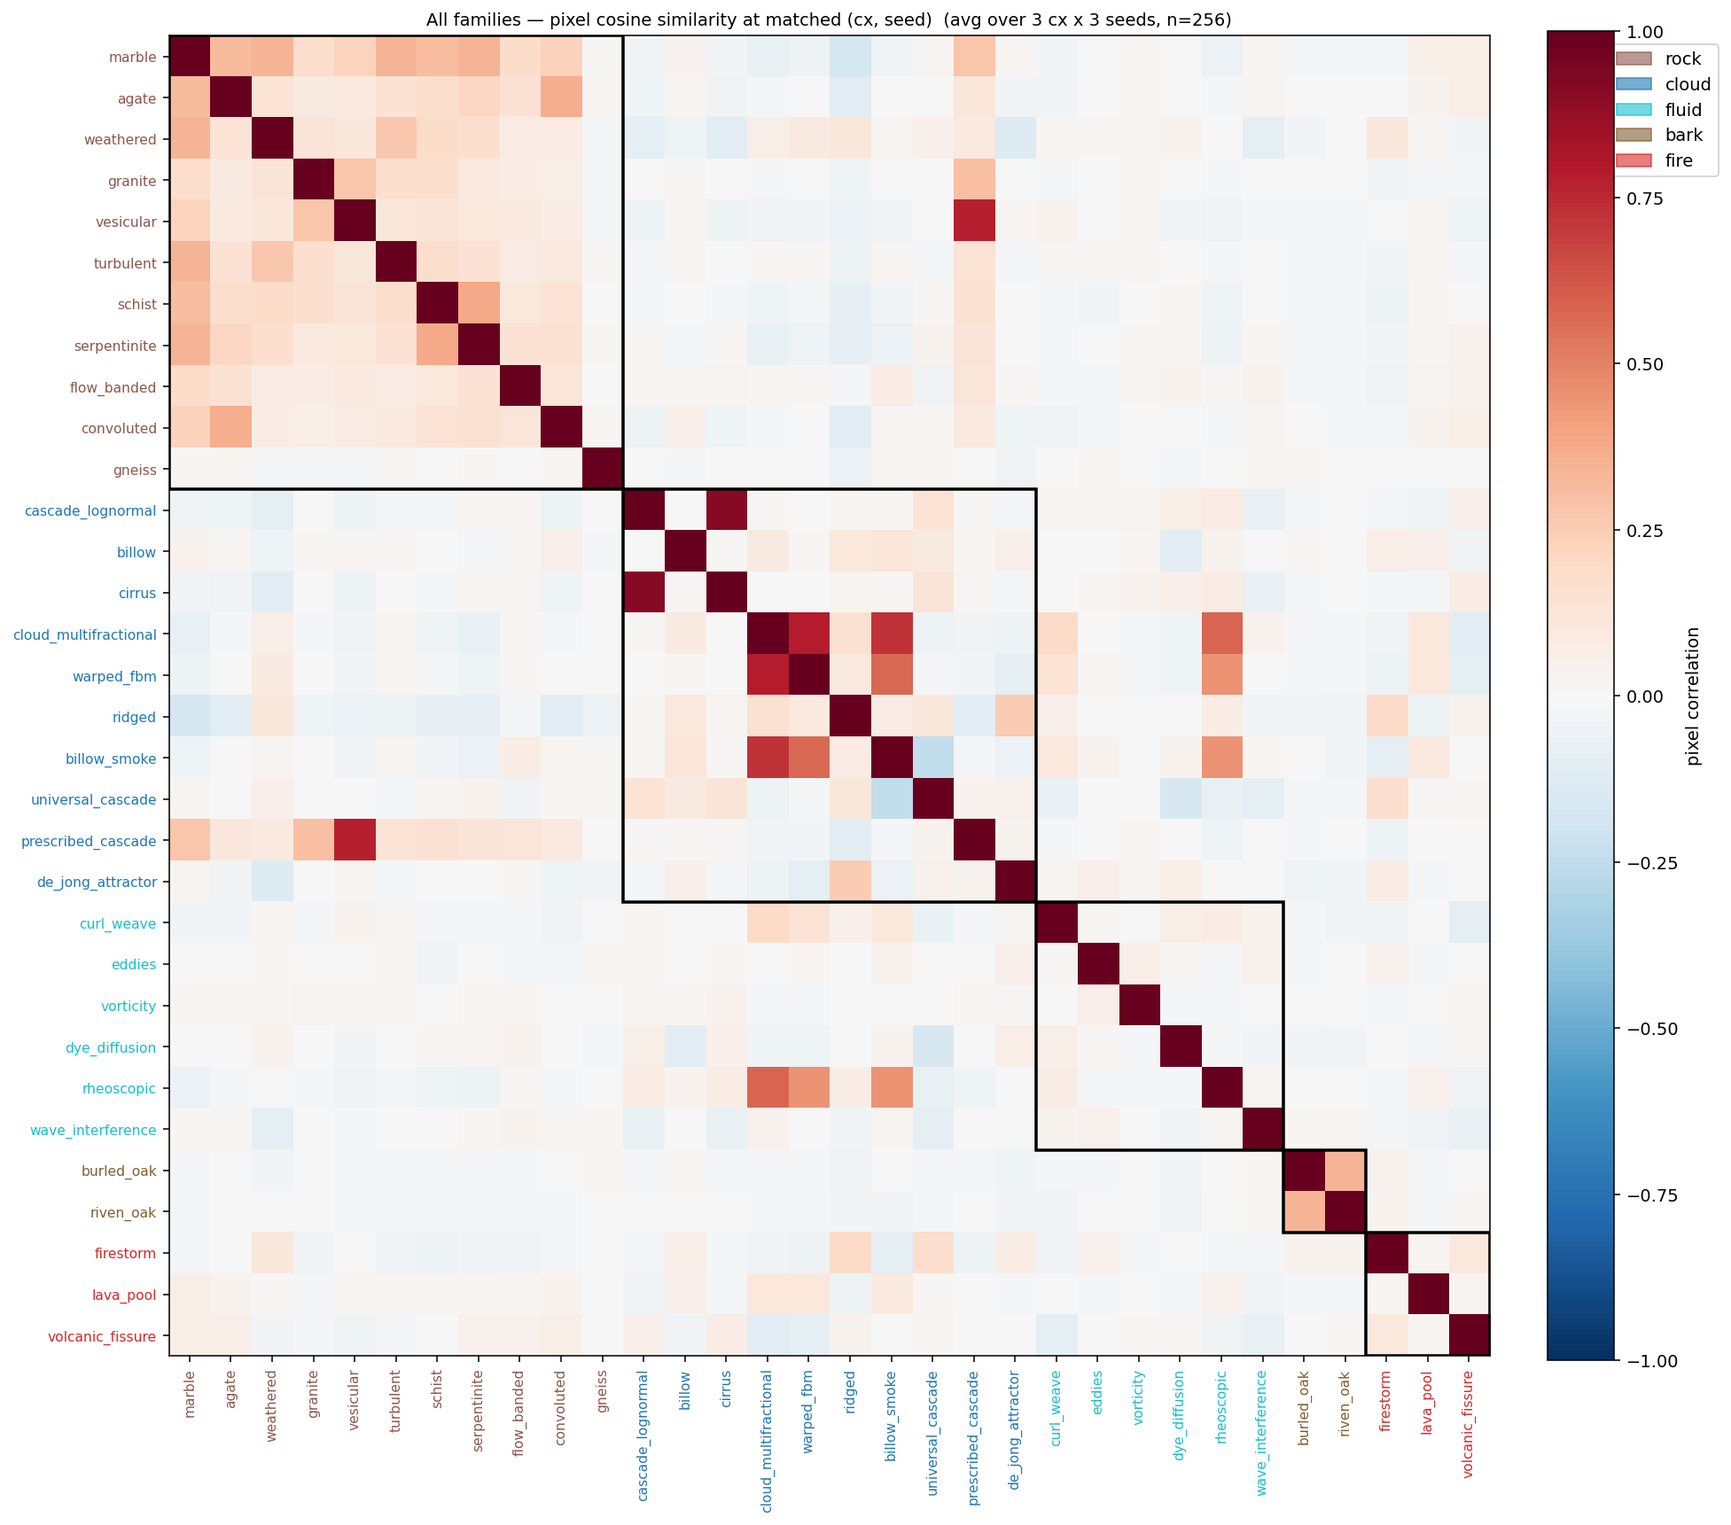
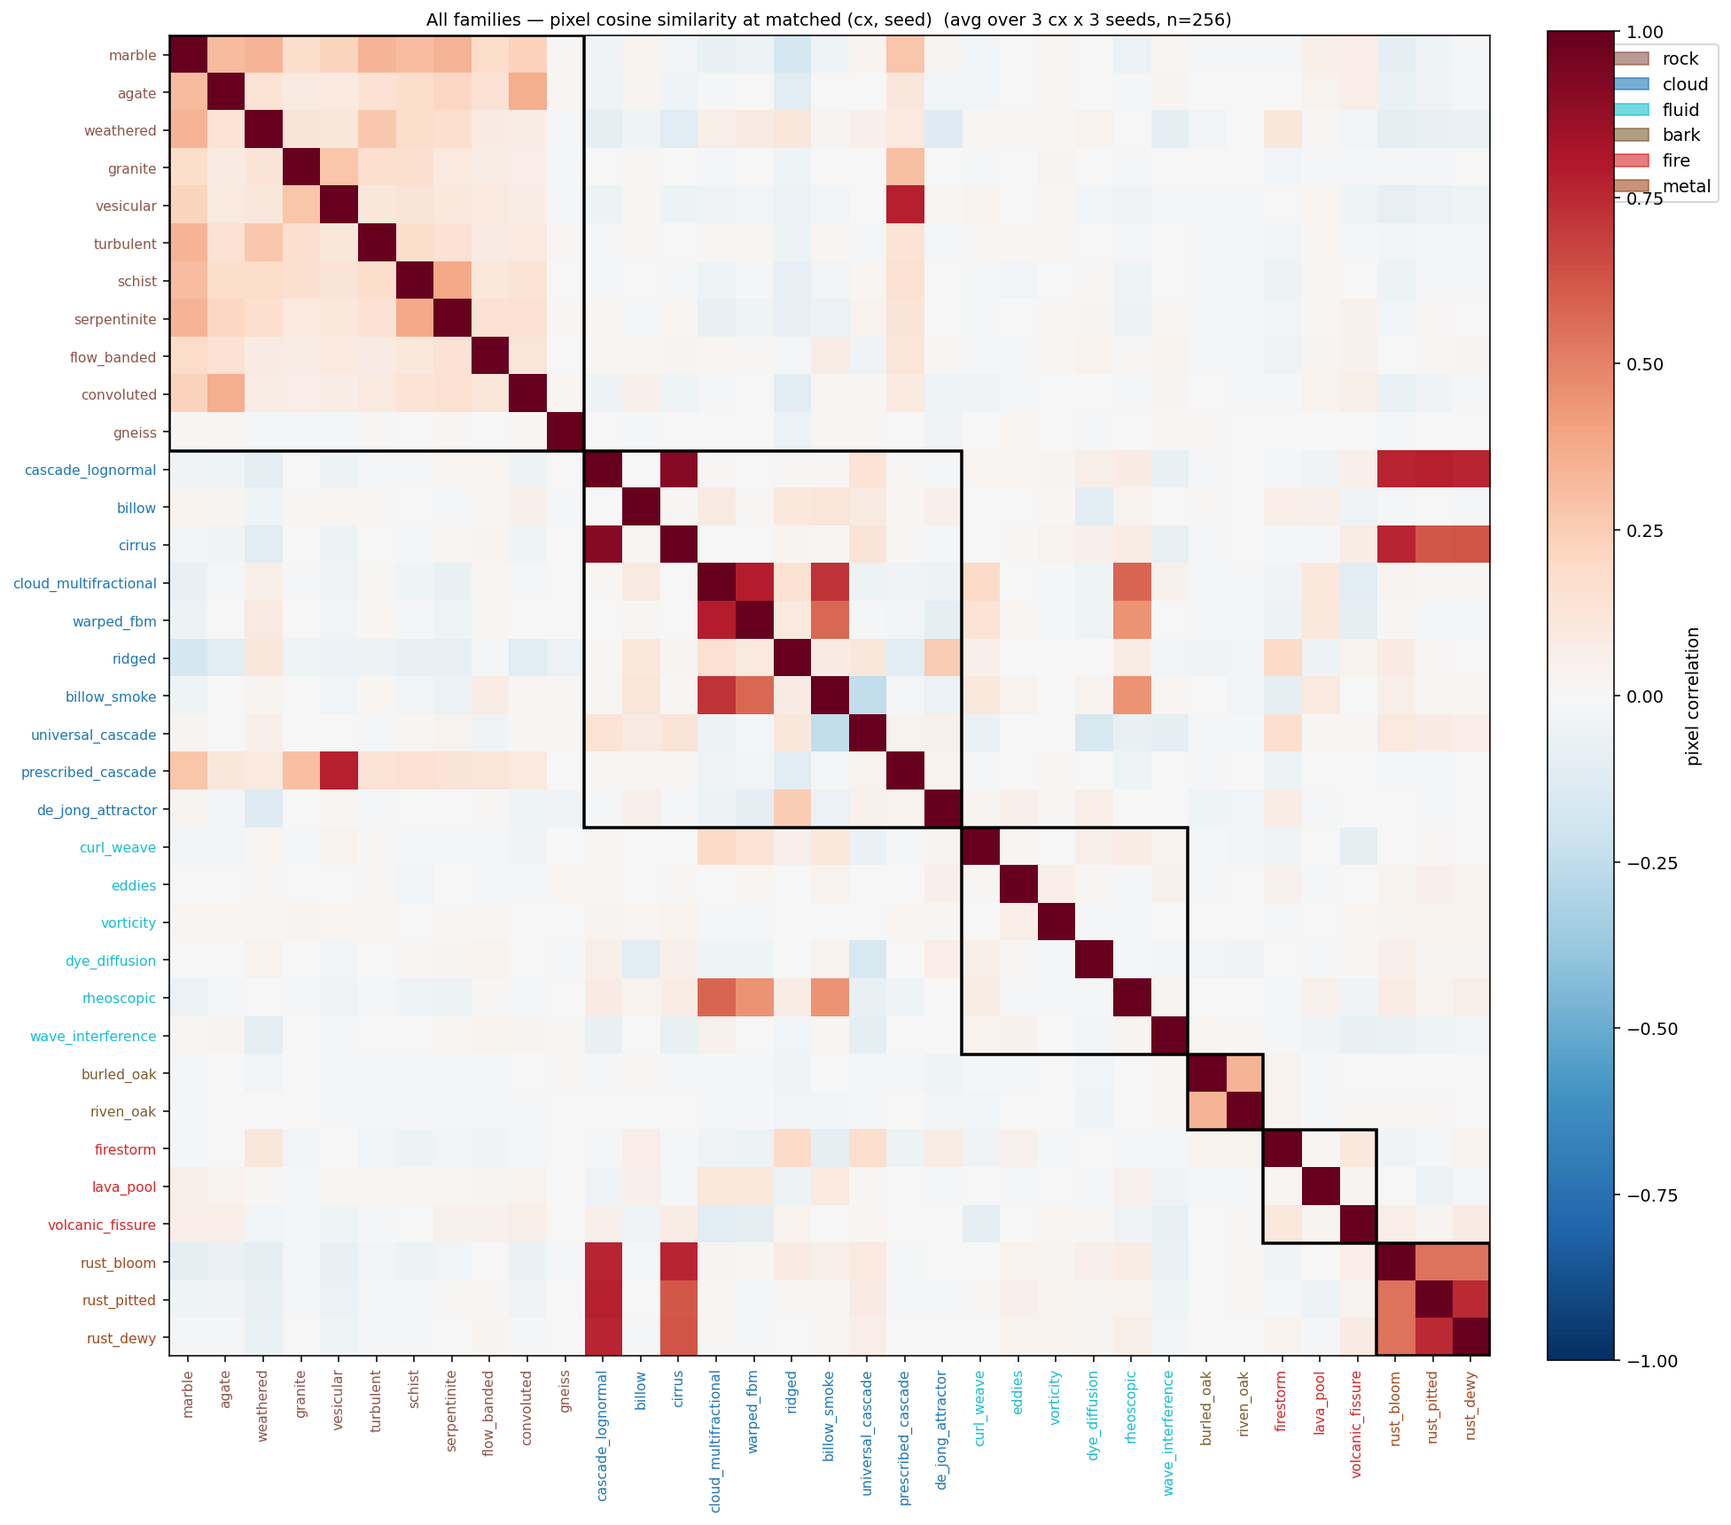
Swap rust_streaks for rust_dewy; wire metal into per-domain benchmarks
Bounzaï picked rust_bloom + rust_pitted + rust_dewy as the satisfying triad
after exploring three new candidates (brecciated/flaking/dewy). rust_streaks
was the odd one out; rust_dewy gives the bright-bead inverse polarity to
rust_pitted's dark pits.

Pixel-similarity check at matched (cx, seed): max rust-involving pair is
rust_pitted ↔ cascade_lognormal at 0.78, well below the 0.95 ship threshold.
Within metal: rust_pitted ↔ rust_dewy at 0.75 (same morphology, inverted
polarity — expected and intentional).

Also fold metal into the per-domain dicts that hadn't been updated for the
initial 3-rust commit: cx_sweep_per_domain, seed_sweep_per_domain,
descriptors_sweep, colorize_all_families, diffusion/analyze.

diff --git a/mfractal/metal.py b/mfractal/metal.py
@@ -3,30 +3,33 @@ metal.py -- corrosion / oxidation textures.
 
 Three families covering distinct rust morphologies:
 
-  rust_bloom    -- radial oxidation blooms spreading from nucleation sites;
-                   Voronoi cells with multifractal cascade interiors.
-                   cx grows the bloom count.
-  rust_streaks  -- vertical drip patterns from oxidation runoff. Strongly
-                   anisotropic cascade with column-wise persistence; lateral
-                   wisps via horizontal warp. cx narrows streaks / adds detail.
-  rust_pitted   -- granular pitting on a corroded surface. Sparse-bright
-                   cascade with crisp tanh contrast; multi-octave (large
-                   patches + small pits). cx grows pit density and crispness.
+  rust_bloom    -- irregular oxidation blooms spreading across a metal surface.
+                   Low-frequency cascade envelope picks bloom location; higher
+                   cascade fills with crusty texture; a soft, multifractally-
+                   perturbed threshold gives crumbly bloom boundaries. cx grows
+                   bloom coverage and texture richness.
+  rust_pitted   -- granular pitting on a corroded surface. Bright multifractal
+                   singularities are inverted to dark pits punched through a
+                   mid-gray ferric crust; multi-octave (large patches + small
+                   pits). cx grows pit density and crispness.
+  rust_dewy     -- bright ferric beads (small wet rust droplets / crystallized
+                   ferric deposits) sprinkled across a darker oxidized base.
+                   Inverse polarity of rust_pitted: bright concentrations on
+                   dark, not dark pits on bright. cx grows bead density.
 
 All return [0, 1] floats; display with mfractal.flagships.punch and colorize
-with the FAMILY_PALETTES entries (rust_oxide / patina_drip / corrosion_grit).
+with the FAMILY_PALETTES entries (rust_oxide / corrosion_grit / ferric_dew).
 """
 from __future__ import annotations
 import numpy as np
 from numpy.random import default_rng
-from scipy.ndimage import gaussian_filter, map_coordinates, zoom
-from scipy.spatial import cKDTree
+from scipy.ndimage import gaussian_filter, zoom
 
 from .generators import _normalize01
 
-__all__ = ["rust_bloom", "rust_streaks", "rust_pitted", "METAL_FAMILIES"]
+__all__ = ["rust_bloom", "rust_pitted", "rust_dewy", "METAL_FAMILIES"]
 
-METAL_FAMILIES = ("rust_bloom", "rust_streaks", "rust_pitted")
+METAL_FAMILIES = ("rust_bloom", "rust_pitted", "rust_dewy")
 
 
 def _cascade(n, depth, sigma, seed):
@@ -41,25 +44,6 @@ def _cascade(n, depth, sigma, seed):
         logM += np.roll(up,
                         (int(rng.integers(0, n)), int(rng.integers(0, n))),
                         axis=(0, 1))
-    logM -= logM.max()
-    return np.exp(logM)
-
-
-def _aniso_cascade(n, depth, sigma, seed, anisotropy=4.0):
-    """Cascade with column-wise persistence: blocks elongated vertically so
-    drips run top-to-bottom while remaining laterally narrow."""
-    rng = default_rng(seed)
-    logM = np.zeros((n, n))
-    for j in range(1, depth + 1):
-        s = 1 << j
-        # narrower in x, taller in y -> drip-like
-        sx = max(1, s // int(round(anisotropy)))
-        block = rng.normal(-sigma ** 2 / 2, sigma, (s, sx))
-        up = zoom(block, (n / s, n / sx), order=3)[:n, :n]
-        if up.shape != (n, n):
-            t = np.zeros((n, n)); t[:up.shape[0], :up.shape[1]] = up; up = t
-        # only roll vertically; horizontal roll would smear the drip alignment
-        logM += np.roll(up, int(rng.integers(0, n)), axis=0)
     logM -= logM.max()
     return np.exp(logM)
 
@@ -98,87 +82,29 @@ def rust_bloom(n=512, seed=None, complexity=0.5):
     cx = float(np.clip(complexity, 0, 1))
     s = seed if seed is not None else 0
 
-    # Low-frequency "where is rust" envelope.
     env_seed = s
     env = _cascade(n, 5, 0.5, env_seed)
     env = _normalize01(np.log1p(env))
     env = gaussian_filter(env, n * 0.04)
     env = _normalize01(env)
 
-    # High-frequency rust texture (crusty interior).
     sigma_tex = 0.55 + 0.5 * cx
     tex = _cascade(n, 7, sigma_tex, s + 101)
     tex = _normalize01(np.log1p(tex))
 
-    # Crumbly edge: perturb the threshold spatially by mid-frequency cascade.
     edge_noise = _cascade(n, 6, 0.45, s + 211)
     edge_noise = _normalize01(np.log1p(edge_noise))
     edge_noise = gaussian_filter(edge_noise, n * 0.008)
 
-    # cx routes the threshold: low cx -> rust mostly absent (high threshold),
-    # high cx -> rust everywhere (low threshold). The threshold is locally
-    # modulated by edge_noise to give crumbly bloom boundaries.
     thr = 0.62 - 0.45 * cx + 0.18 * (edge_noise - 0.5)
     mask = 1.0 / (1.0 + np.exp(-(env - thr) * (12.0 + 18.0 * cx)))
 
-    # Combine: rust regions = mask * texture, intact regions = darker bare
-    # metal with subtle reflectivity from a different texture seed.
     bare = 0.20 + 0.18 * _normalize01(_cascade(n, 6, 0.30, s + 313))
     bare = gaussian_filter(bare, 1.2)
     rusted = 0.30 + 0.65 * tex
     field = (1 - mask) * bare + mask * rusted
     field = _bright_target(field, 0.45)
     return _contrast(field, 1.4 + 1.6 * cx)
-
-
-def rust_streaks(n=512, seed=None, complexity=0.5):
-    """Vertical drip patterns from oxidation runoff.
-
-    Strongly anisotropic cascade with column-wise persistence so brightness
-    streaks vertically. Per-column rust mass (random drip-heights from seeds
-    on the top edge) modulates streak density. Lateral wisps via mild
-    horizontal warp.
-
-    complexity in [0, 1]:
-      cx=0  -> few wide smooth streaks (early oxidation runoff)
-      cx=1  -> many narrow crisp drip lines with intricate side wisps
-    """
-    cx = float(np.clip(complexity, 0, 1))
-    rng = default_rng(seed)
-
-    # Anisotropic cascade: column-correlated, brightness streaks vertically.
-    aniso = 3.5 + 2.5 * cx
-    sigma = 0.40 + 0.55 * cx
-    streak_base = _aniso_cascade(n, 7, sigma, seed, anisotropy=aniso)
-    streak_base = _normalize01(np.log1p(streak_base))
-
-    # Per-column rust-mass envelope: random number of drip seeds along the top
-    # edge, each falling some random distance.
-    yyN, xxN = np.mgrid[0:n, 0:n].astype(float) / n
-    n_drips = int(8 + 36 * cx)
-    drip_centers = rng.uniform(0, 1, n_drips)
-    drip_widths = rng.uniform(0.015, 0.05, n_drips)
-    drip_lengths = rng.uniform(0.30, 0.95, n_drips)
-    drip_env = np.zeros((n, n))
-    for c, w, L in zip(drip_centers, drip_widths, drip_lengths):
-        lateral = np.exp(-((xxN - c) ** 2) / (2 * w ** 2))
-        vertical = np.clip(yyN / L, 0, 1) * np.exp(-np.clip((yyN - L) / 0.05, 0, None))
-        drip_env += lateral * vertical
-    drip_env = _normalize01(drip_env)
-
-    # Mild horizontal warp -> lateral wisps without breaking the vertical
-    # persistence of the streak base.
-    yyp, xxp = np.mgrid[0:n, 0:n].astype(float)
-    warp_scale = n / (12.0 + 18.0 * cx)
-    warp_amp = 2.0 + 6.0 * cx
-    fx = gaussian_filter(rng.normal(0, 1, (n, n)), warp_scale) * warp_amp
-    warped = map_coordinates(streak_base, [yyp, (xxp + fx) % n],
-                             order=1, mode="grid-wrap")
-
-    # Combine: dark background + drips + streaks.
-    field = 0.18 + 0.55 * drip_env + 0.50 * drip_env * warped
-    field = _bright_target(field, 0.42)
-    return _contrast(field, 2.0 + 2.5 * cx)
 
 
 def rust_pitted(n=512, seed=None, complexity=0.5):
@@ -197,18 +123,15 @@ def rust_pitted(n=512, seed=None, complexity=0.5):
     cx = float(np.clip(complexity, 0, 1))
     s = seed if seed is not None else 0
 
-    # Intact-crust base: moderate cascade, mid-gray with soft variation.
     base = _cascade(n, 6, 0.30 + 0.20 * cx, s)
     base = _normalize01(np.log1p(base))
     base = gaussian_filter(base, 1.0)
     base = 0.45 + 0.35 * base
 
-    # Pit mask: take a sparse high-frequency cascade and INVERT it so the
-    # bright multifractal singularities become dark pits. Mid + small layers.
+    # Bright multifractal singularities -> dark pits via inversion.
     pit_small = _cascade(n, 7, 0.55 + 0.55 * cx, s + 101)
     pit_small = _normalize01(np.log1p(pit_small))
     pit_small = _contrast(pit_small, 2.5 + 4.0 * cx)
-    # Bright singularities -> dark pits.
     pit_small = 1.0 - pit_small
 
     pit_large = _cascade(n, 6, 0.45 + 0.30 * cx, s + 211)
@@ -217,9 +140,6 @@ def rust_pitted(n=512, seed=None, complexity=0.5):
     pit_large = _contrast(pit_large, 1.8 + 2.0 * cx)
     pit_large = 1.0 - pit_large
 
-    # Combine: multiply base by pit masks so each pit darkens the local
-    # base value. Small pits dominate (granular detail); large pits give
-    # the broad pitted patches.
     pit_strength_small = 0.45 + 0.40 * cx
     pit_strength_large = 0.30 + 0.30 * cx
     pits = (1 - pit_strength_small * (1 - pit_small)) * \
@@ -227,3 +147,42 @@ def rust_pitted(n=512, seed=None, complexity=0.5):
     field = base * pits
     field = _bright_target(field, 0.42)
     return _contrast(field, 1.4 + 1.6 * cx)
+
+
+def rust_dewy(n=512, seed=None, complexity=0.5):
+    """Dense ferric beads scattered across a darker corroded base.
+
+    Inverse character of rust_pitted: instead of dark pits punched through
+    a bright crust, this generates bright ferric concentrations (small wet
+    rust droplets / crystallized ferric deposits) sprinkled across a
+    darker oxidized base. Multi-scale -- larger blooms underlay small
+    sharp-bright droplets.
+
+    complexity in [0, 1]:
+      cx=0  -> few large bright concentrations on darker base
+      cx=1  -> dense fine ferric beading at all scales
+    """
+    cx = float(np.clip(complexity, 0, 1))
+    s = seed if seed is not None else 0
+
+    base = _cascade(n, 6, 0.30 + 0.20 * cx, s)
+    base = _normalize01(np.log1p(base))
+    base = gaussian_filter(base, 1.2)
+    base = 0.16 + 0.22 * base
+
+    # Sparse bright multifractal singularities kept bright (no inversion).
+    beads_small = _cascade(n, 7, 0.55 + 0.55 * cx, s + 101)
+    beads_small = _normalize01(np.log1p(beads_small))
+    beads_small = _contrast(beads_small, 2.8 + 4.0 * cx)
+
+    beads_mid = _cascade(n, 7, 0.50 + 0.30 * cx, s + 211)
+    beads_mid = _normalize01(np.log1p(beads_mid))
+    beads_mid = gaussian_filter(beads_mid, 0.8)
+    beads_mid = _contrast(beads_mid, 2.0 + 2.5 * cx)
+
+    bead_strength_small = 0.55 + 0.30 * cx
+    bead_strength_mid = 0.35 + 0.25 * cx
+    field = base + bead_strength_small * beads_small + bead_strength_mid * beads_mid * 0.6
+    field = np.clip(field, 0, 1)
+    field = _bright_target(field, 0.42)
+    return _contrast(field, 1.6 + 1.8 * cx)

diff --git a/mfractal/__init__.py b/mfractal/__init__.py
@@ -31,7 +31,7 @@ from .clouds import (cascade_lognormal, billow, cirrus, ridged,
                      CLOUD_FAMILIES)
 from .bark import burled_oak, riven_oak, BARK_FAMILIES
 from .fire import firestorm, lava_pool, volcanic_fissure, FIRE_FAMILIES
-from .metal import rust_bloom, rust_streaks, rust_pitted, METAL_FAMILIES
+from .metal import rust_bloom, rust_pitted, rust_dewy, METAL_FAMILIES
 from .modulations import symmetrize
 from .levy import universal_cascade, LEVY_FAMILIES
 from .wavelet_cascade import prescribed_cascade, WAVELET_FAMILIES
@@ -49,7 +49,7 @@ __all__ = [
     "generators", "quantify", "stimuli", "flagships", "organic", "textures", "fluids",
     "bark", "burled_oak", "riven_oak", "BARK_FAMILIES",
     "fire", "firestorm", "lava_pool", "volcanic_fissure", "FIRE_FAMILIES",
-    "metal", "rust_bloom", "rust_streaks", "rust_pitted", "METAL_FAMILIES",
+    "metal", "rust_bloom", "rust_pitted", "rust_dewy", "METAL_FAMILIES",
     "modulations", "symmetrize",
     "levy", "universal_cascade", "LEVY_FAMILIES",
     "wavelet_cascade", "prescribed_cascade", "WAVELET_FAMILIES",

diff --git a/mfractal/textures.py b/mfractal/textures.py
@@ -266,10 +266,10 @@ NATURAL_PALETTES = {
     # --- metal / corrosion ---
     "rust_oxide":     [(0.08, 0.04, 0.02), (0.30, 0.13, 0.05), (0.62, 0.28, 0.10),
                        (0.84, 0.50, 0.18), (0.96, 0.78, 0.42)],
-    "patina_drip":    [(0.10, 0.07, 0.05), (0.32, 0.18, 0.10), (0.55, 0.32, 0.14),
-                       (0.74, 0.48, 0.22), (0.90, 0.74, 0.42)],
     "corrosion_grit": [(0.06, 0.04, 0.04), (0.26, 0.14, 0.08), (0.50, 0.25, 0.12),
                        (0.72, 0.42, 0.18), (0.88, 0.70, 0.36)],
+    "ferric_dew":     [(0.06, 0.05, 0.04), (0.22, 0.14, 0.08), (0.48, 0.26, 0.12),
+                       (0.80, 0.50, 0.22), (0.98, 0.82, 0.48)],
 }
 
 
@@ -317,8 +317,8 @@ FAMILY_PALETTES = {
     "volcanic_fissure":     "hearth",
     # metal / corrosion
     "rust_bloom":           "rust_oxide",
-    "rust_streaks":         "patina_drip",
     "rust_pitted":          "corrosion_grit",
+    "rust_dewy":            "ferric_dew",
 }
 
 

diff --git a/benchmarks/descriptors_sweep.py b/benchmarks/descriptors_sweep.py
@@ -37,10 +37,11 @@ DOMAIN = {
               "rheoscopic","wave_interference"],
     "bark":  ["burled_oak","riven_oak"],
     "fire":  ["firestorm","lava_pool","volcanic_fissure"],
+    "metal": ["rust_bloom","rust_pitted","rust_dewy"],
 }
 FAM2DOM = {f: d for d, fs in DOMAIN.items() for f in fs}
 DOMAIN_COLORS = {"rock":"#8c564b","cloud":"#1f77b4","fluid":"#17becf",
-                 "bark":"#7f5d2f","fire":"#d62728"}
+                 "bark":"#7f5d2f","fire":"#d62728","metal":"#a14b1f"}
 ALL_FAMS = [f for d in DOMAIN for f in DOMAIN[d]]
 
 # The new descriptors (skip the c1/c2/delta_alpha/alpha0 that have prior figures).

diff --git a/benchmarks/diffusion/analyze.py b/benchmarks/diffusion/analyze.py
@@ -39,10 +39,11 @@ DOMAIN = {
               "rheoscopic", "wave_interference"],
     "bark":  ["burled_oak", "riven_oak"],
     "fire":  ["firestorm", "lava_pool", "volcanic_fissure"],
+    "metal": ["rust_bloom", "rust_pitted", "rust_dewy"],
 }
 FAM2DOM = {f: d for d, fs in DOMAIN.items() for f in fs}
 DOMAIN_COLORS = {"rock": "#8c564b", "cloud": "#1f77b4", "fluid": "#17becf",
-                 "bark": "#7f5d2f", "fire": "#d62728"}
+                 "bark": "#7f5d2f", "fire": "#d62728", "metal": "#a14b1f"}
 
 
 def load_gray(path: Path, size: int | None = None) -> np.ndarray:

diff --git a/benchmarks/family_similarity.py b/benchmarks/family_similarity.py
@@ -47,10 +47,11 @@ DOMAIN = {
               "rheoscopic","wave_interference"],
     "bark":  ["burled_oak","riven_oak"],
     "fire":  ["firestorm","lava_pool","volcanic_fissure"],
+    "metal": ["rust_bloom","rust_pitted","rust_dewy"],
 }
 FAM2DOM = {f: d for d, fs in DOMAIN.items() for f in fs}
 DOMAIN_COLORS = {"rock":"#8c564b","cloud":"#1f77b4","fluid":"#17becf",
-                 "bark":"#7f5d2f","fire":"#d62728"}
+                 "bark":"#7f5d2f","fire":"#d62728","metal":"#a14b1f"}
 ALL_FAMS = [f for d in DOMAIN for f in DOMAIN[d]]
 
 CXS = [0.25, 0.5, 0.75]

diff --git a/benchmarks/cx_sweep_per_domain.py b/benchmarks/cx_sweep_per_domain.py
@@ -35,6 +35,7 @@ DOMAIN = {
               "rheoscopic","wave_interference"],
     "bark":  ["burled_oak","riven_oak"],
     "fire":  ["firestorm","lava_pool","volcanic_fissure"],
+    "metal": ["rust_bloom","rust_pitted","rust_dewy"],
 }
 CXS = [0.0, 0.25, 0.5, 0.75, 1.0]
 N = 384
@@ -42,7 +43,7 @@ SEED = 0
 
 DOMAIN_FIG_IDX = {
     "rock": 14, "cloud": 15, "fluid": 16,
-    "bark": 17, "fire": 19,
+    "bark": 17, "fire": 19, "metal": 39,
 }
 
 

diff --git a/benchmarks/seed_sweep_per_domain.py b/benchmarks/seed_sweep_per_domain.py
@@ -34,6 +34,7 @@ DOMAIN = {
               "rheoscopic","wave_interference"],
     "bark":  ["burled_oak","riven_oak"],
     "fire":  ["firestorm","lava_pool","volcanic_fissure"],
+    "metal": ["rust_bloom","rust_pitted","rust_dewy"],
 }
 SEEDS = [0, 1, 2, 3, 4]
 CX = 0.5
@@ -41,7 +42,7 @@ N = 384
 
 DOMAIN_FIG_IDX = {
     "rock": 20, "cloud": 21, "fluid": 22,
-    "bark": 23, "fire": 25,
+    "bark": 23, "fire": 25, "metal": 38,
 }
 
 

diff --git a/benchmarks/colorize_all_families.py b/benchmarks/colorize_all_families.py
@@ -26,6 +26,7 @@ DOMAIN = {
               "rheoscopic","wave_interference"],
     "bark":  ["burled_oak","riven_oak"],
     "fire":  ["firestorm","lava_pool","volcanic_fissure"],
+    "metal": ["rust_bloom","rust_pitted","rust_dewy"],
 }
 
 NCOL = 6

diff --git a/README.md b/README.md
@@ -57,9 +57,9 @@ The full generator + estimator reference lives in
 
 ## Domains & curated families
 
-The toolbox ships 32 families across five domains. After empirical validation
+The toolbox ships 35 families across six domains. After empirical validation
 on the original 30 (see [`benchmarks/`](benchmarks/)) and a post-2026-06
-pixel-similarity prune of near-duplicates, the **32 curated** families below
+pixel-similarity prune of near-duplicates, the **35 curated** families below
 are the current set.
 
 | Domain | Curated families | Notes |
@@ -69,6 +69,7 @@ are the current set.
 | **Fluid** (6) | curl_weave, eddies, vorticity, dye_diffusion, rheoscopic, wave_interference | eddies/vorticity = real 2D Navier-Stokes sims; dye_diffusion is sparse at low cx; rheoscopic is a near-monofractal flow-viz texture; wave_interference = sum of random plane waves with optional `crispness` knob |
 | **Bark** (2) | burled_oak, riven_oak | intricate-knot wood surfaces; complexity grows knot density / cracks-per-anchor |
 | **Fire** (3) | firestorm, lava_pool, volcanic_fissure | drastic spatial silhouettes: chaotic vortices / Voronoi pools / vertical cracks |
+| **Metal** (3) | rust_bloom, rust_pitted, rust_dewy | corrosion morphologies: irregular oxidation blooms / dark pits punched through a ferric crust / bright ferric beads on a dark base. cx grows rust coverage / pit density / bead density |
 
 **Dropped** from the original 30 after the c2 validation:
 `plume` (estimator artifact, c2 ~ -8); `cellular_stone`, `concentric`,
